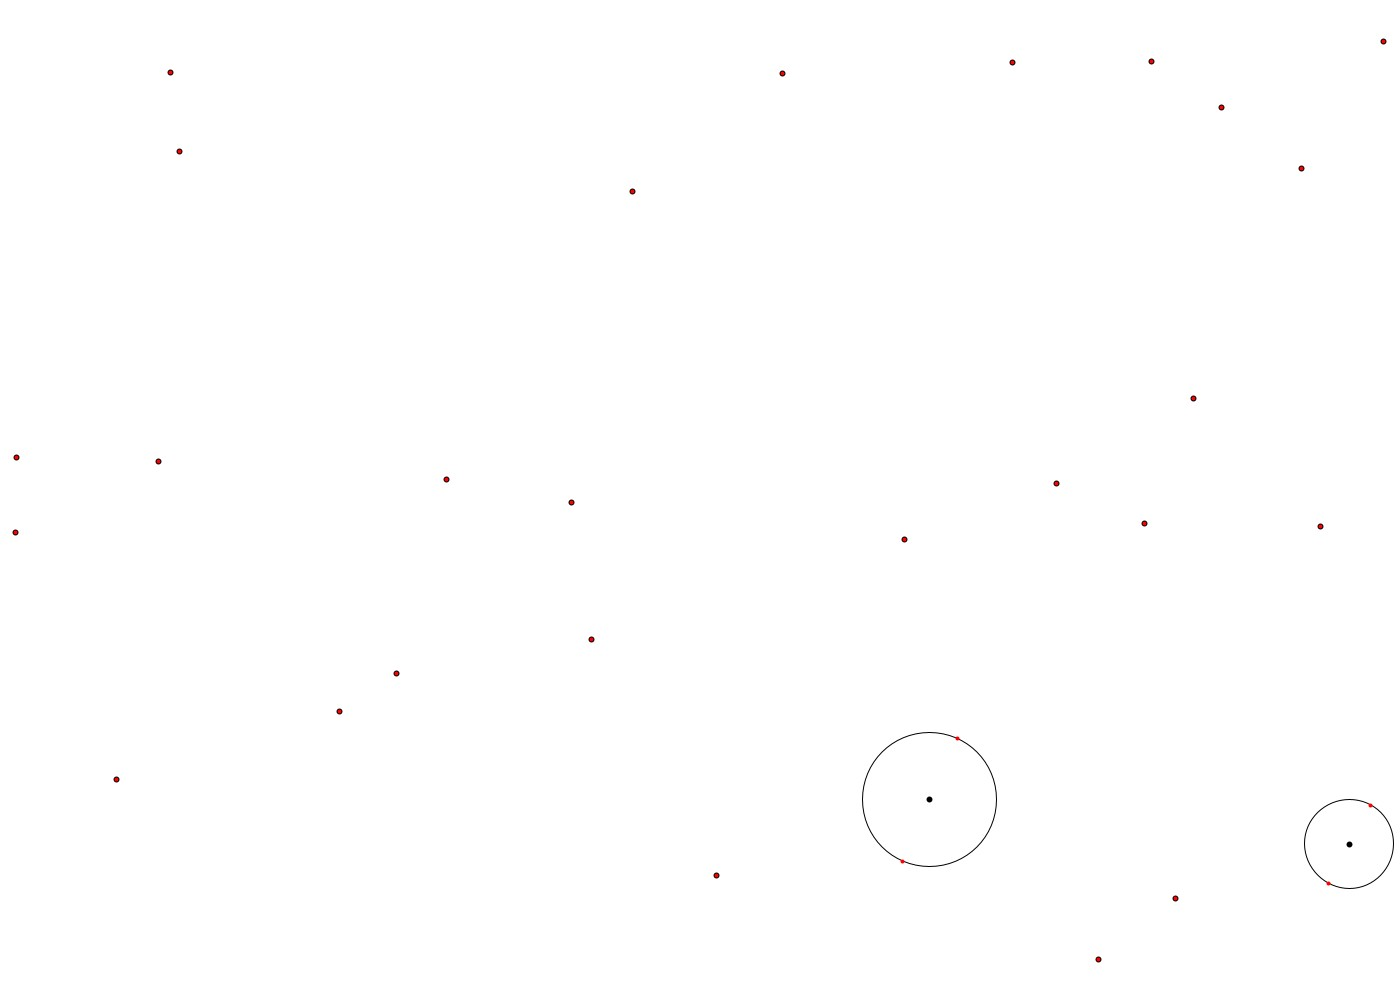
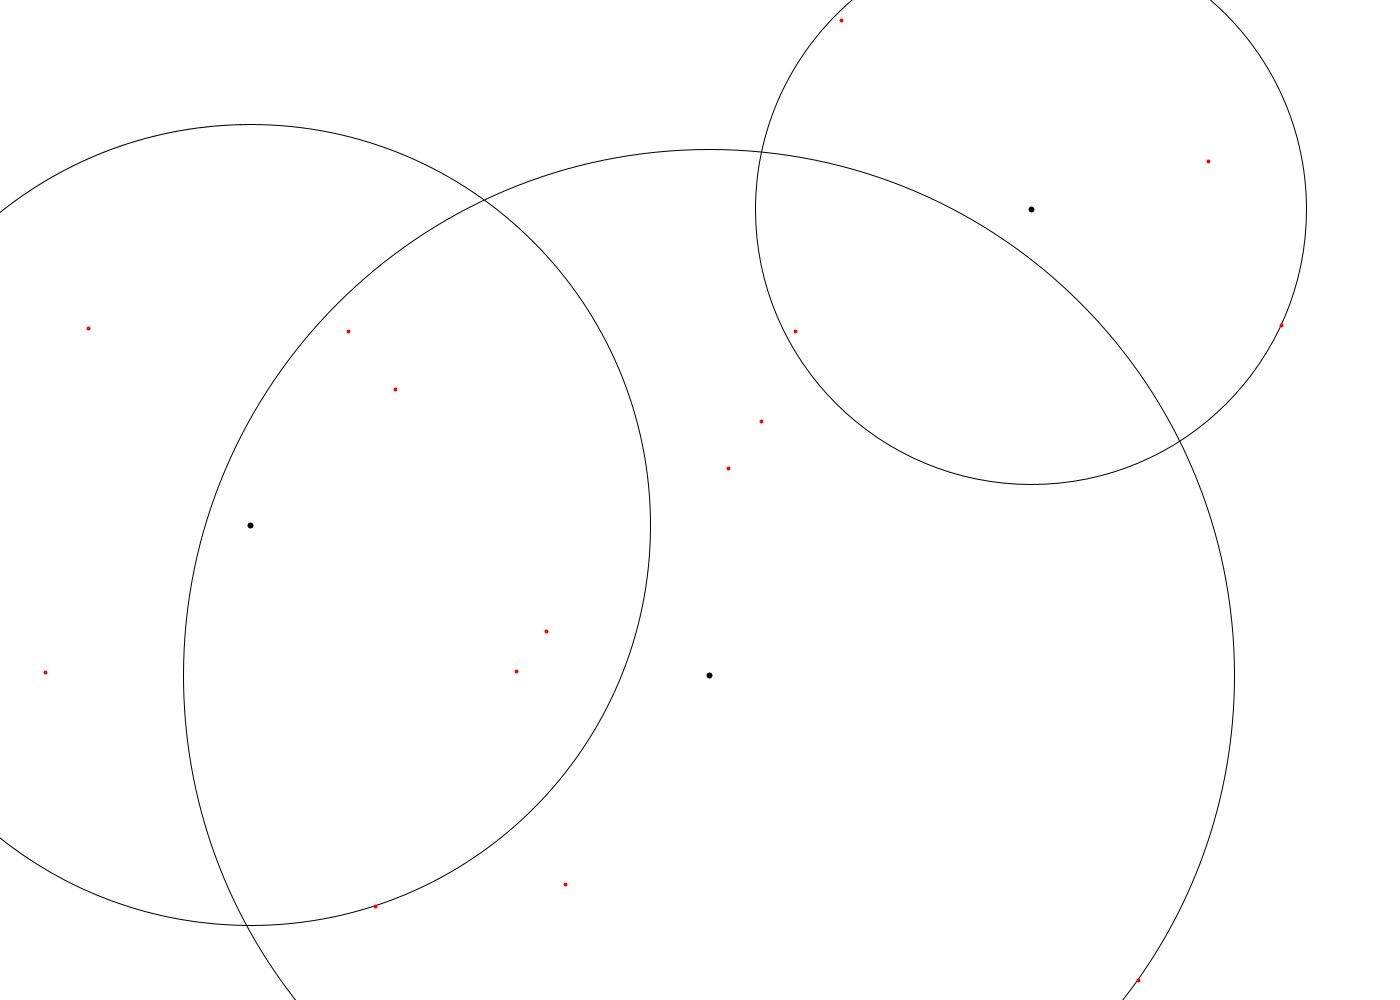
setup

Changed region(s): [[0.5221, 0.124, 0.5529, 0.155], [0.3379, 0.186, 0.3686, 0.217]]

diff --git a/Projet LOO2/src/Dessin/Dessin.java b/Projet LOO2/src/Dessin/Dessin.java
@@ -1,4 +1,5 @@
 package Dessin;
+import exceptions.IdenticalPoints;
 import processing.core.PApplet;
 import processing.core.PImage;
 import Formes.Polygone;
@@ -22,8 +23,8 @@ public class Dessin extends PApplet{
     
     Plan plan = new Plan();
     int act_save = 0; // indice de la sauvegarde actuelle.
-    int nb_save = 0; //Nombre d'image sauvegardé et donc d'étape effectué 
-    Kmeans km = new Kmeans(plan,27);
+    int nb_save = 0; //Nombre d'images sauvegardées et donc d'étapes effectuées
+    Kmeans km;
             
 
     /**
@@ -36,14 +37,52 @@ public class Dessin extends PApplet{
     /**
      * Permet une mise en place avant le dessin (prédéfinie par Processing)
      */
-    public void setup(){
+    public void setup() throws IdenticalPoints{
         background(255);
-        for(int i = 0; i < 30; i ++){
-            Point point = new Point(0,0);
-            point.setRandom(1400,1000);
-            plan.addPoint(point);
-    }
-        km.setPlan(plan);
+        Scanner scan = new Scanner(System.in);
+        boolean identical = true;
+        System.out.println("Mise en place des points aléatoire : 0 \nMise en place des points manuelle : 1 \nScénarios critiques : 2");
+        int repUser = scan.nextInt();
+        if (repUser == 0) { // si rep = 0, on remplit le plan par des points aléatoires.
+            System.out.println("Combien de points ? ");
+            repUser = scan.nextInt();
+            for(int i = 0; i < repUser; i++){
+                System.out.println("Réponse : " + repUser);
+                System.out.println(i);
+                Point point = new Point(0,0);
+                point.setRandom(1400,1000);
+                plan.addPoint(point);
+            }
+        }
+        else if (repUser == 1) {
+            System.out.println("Combien de points ? ");
+            repUser = scan.nextInt();
+            for(int i = 0; i < repUser; i ++){
+                System.out.println("Nouveau Point : \n \t X ? ");
+                int X = scan.nextInt();
+                System.out.println("\t Y ? ");
+                int Y = scan.nextInt();
+                Point point = new Point(X,Y);
+                plan.addPoint(point);
+            }
+        }
+        else {
+            System.out.println("Scénario des points identiques : 0 \nScénario - : 1");
+            repUser = scan.nextInt();
+            if (repUser == 0) ScenarioIdenticalPoints();
+            //else
+        }
+        Point[] arrayPoints = plan.getPoints().toArray((new Point[plan.getNbPoints()]));
+
+        for (int i = 1; i < plan.getNbPoints(); i++) {
+            if (arrayPoints[i] != arrayPoints[i-1]) {
+                identical = false;
+                break;
+            }
+        }
+        if (identical) throw new IdenticalPoints();
+
+        km = new Kmeans(plan,3);
         km.setupK_means();
         System.out.println("Setup terminé");
     }
@@ -51,20 +90,16 @@ public class Dessin extends PApplet{
     /**
      * Permet de dessiner (prédéfinie par la bibliothèque graphique : Processing) -> se recall indéfiniment
      */
-    public void draw() {
+    public void draw() throws NegativeValue {
         Scanner scan = new Scanner(System.in);
-        
-       
         background(255);
         try{
             System.out.println("Etape actuel : " + act_save + "\nNombre d'étape max : " + nb_save + " \n ------------ \nEtape précédente : 0\nEtape suivante : 1");
             int userAns = scan.nextInt();
-
             if(userAns == 1){
-                background(255);
-                
-                if(act_save == nb_save){ //Si il il n'y a pas d'image sauvegardé pour l'étape suivante
-                    drawKmeans(plan,km);
+                background(255); //Pour dissocier chaque dessin → sinon les dessins se fusionnent.
+                if(act_save == nb_save){ //S'il n'y a pas d'image sauvegardée pour l'étape suivante
+                    drawKmeans();
                     save("StockDessin\\dessin" + act_save + ".jpg");
                     act_save += 1;
                     nb_save += 1;
@@ -82,15 +117,14 @@ public class Dessin extends PApplet{
                 else{
                     System.out.println("Erreur, il n'y a pas d'étape précédente");
                 }
-                
             }
-
-            
         }
         catch(NegativeValue e){
             e.printStackTrace();
         }
-        
+    }
+
+    public void ScenarioIdenticalPoints() {
 
     }
 
@@ -111,7 +145,7 @@ public class Dessin extends PApplet{
      * @param km (Kmeans)
      * pas de return
      */
-    public void drawKmeans(Plan plan,Kmeans km) throws NegativeValue{
+    public void drawKmeans() throws NegativeValue{
         km.k_meansOneStep();
         background(255);
 
@@ -136,9 +170,6 @@ public class Dessin extends PApplet{
         stroke(255,0,0);
         strokeWeight(4);
         drawPoint(arrayPoints, plan.getNbPoints());
-
-        
-        
     }
 
     /**

diff --git a/Projet LOO2/src/exceptions/IdenticalPoints.java b/Projet LOO2/src/exceptions/IdenticalPoints.java
@@ -4,5 +4,5 @@ public class IdenticalPoints extends RuntimeException {
     public IdenticalPoints(String message) {
         super(message);
     }
-    public IdenticalPoints() {super("Problème : les points donnés sont identiques.");}
+    public IdenticalPoints() {super("Problème : les points donnés sont tous identiques.");}
 }
